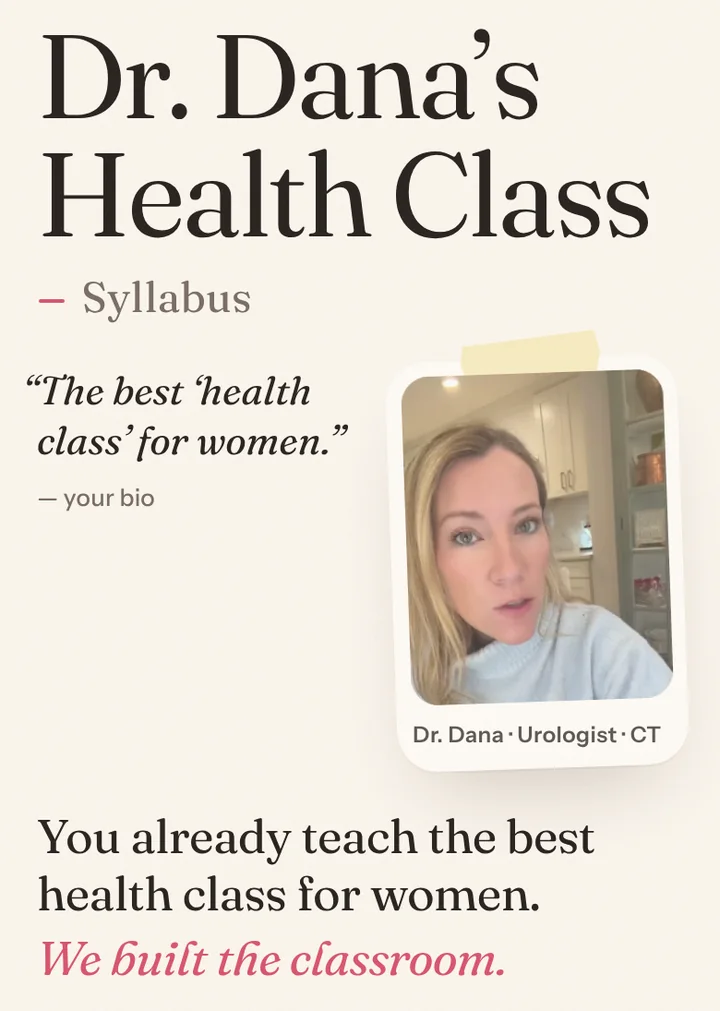
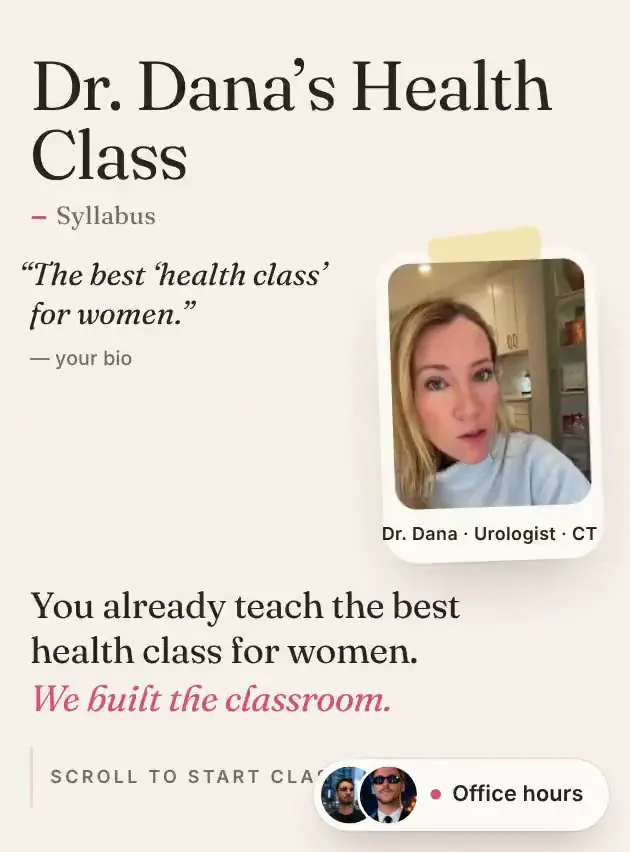
CreatorMatch: last regressions from the final check
- Income: the number and the app bar start together on any screen
  height, landscape included; the real value stays readable to screen
  readers and in print; the bar eases like the number.
- Comparison: short source labels fit one line from 320 px; stacked
  links keep their own 48 px tap areas.
- Calculator: a tighter step keeps the results inside the card at 320 px.
- Form: profile and reel links for handles with a dot resolve to the
  handle.
- Hero: replay and pause stay clear of the phone at 320 px.
- Tour: the flexibility chip matches the two-knee hold.
- Proof: the Dana poster is a frame of its own clip, so the letterbox,
  poster and video share one background.

Claude-Session: https://claude.ai/code/session_015BzU8drWGQcKYP5PaGJSWo

Changed region(s): [[0.0302, 0.0305, 0.9651, 1.0], [0.0905, 0.4883, 0.2111, 0.5188], [0.4524, 0.3967, 0.4825, 0.4272]]

diff --git a/brand/index.html b/brand/index.html
@@ -195,6 +195,7 @@ html:not(.js) .stage .mosaic{display:none}
 .stage.played .replay{display:grid}
 .stage.played:not(.done) .replay{opacity:.45;pointer-events:none}
 .vp.hero-vp{top:56px;bottom:auto;right:var(--gut);background:var(--cream);color:var(--plum);box-shadow:inset 0 0 0 1.5px var(--line-2);-webkit-backdrop-filter:none;backdrop-filter:none}
+@media (max-width:329px){.replay,.vp.hero-vp{right:calc(var(--gut) - 6px)}}
 .stage-glow{position:absolute;left:50%;top:56%;width:min(560px,130vw);aspect-ratio:1;transform:translate(-50%,-50%);border-radius:50%;background:radial-gradient(closest-side,rgba(255,214,107,.55),rgba(255,214,107,.18) 55%,transparent 72%);z-index:0;pointer-events:none}
 
 /* ── phone ────────────────────────────────────────────────────────────── */
@@ -296,7 +297,7 @@ html:not(.js) .ig-grid .kind{opacity:1;transform:none}
 .bar{position:relative;display:flex;flex-direction:column;justify-content:flex-end;height:100%}
 .bar i{display:block;height:var(--h);border-radius:12px 12px 4px 4px;background:rgba(255,248,240,.16);box-shadow:inset 0 0 0 1px rgba(255,248,240,.12)}
 .bar.app i{background:linear-gradient(180deg,#FF7A5C,var(--coral));box-shadow:0 0 0 0 rgba(255,90,54,0),0 18px 40px -16px rgba(255,90,54,.7);transform-origin:bottom}
-.js .bar.app i{transform:scaleY(0);transition:transform 1.3s var(--ease-io) .25s}
+.js .bar.app i{transform:scaleY(0);transition:transform 1.3s var(--ease) .25s}
 .js .bars.in .bar.app i{transform:none}
 .bar .still{position:absolute;left:50%;bottom:calc(var(--h) + 8px);transform:translateX(-50%);font:600 10.5px/1 var(--sans);letter-spacing:.06em;text-transform:uppercase;color:var(--on-plum-3);white-space:nowrap}
 .bar.app .still{color:var(--butter)}
@@ -476,6 +477,8 @@ html:not(.js) .ig-grid .kind{opacity:1;transform:none}
 .out-tbl .v{justify-content:flex-end;padding-left:14px}
 .out-tbl .h+.h{padding-left:14px}
 .out-tbl.long .v,.out-tbl.long .net .v{font-size:14px}
+.out-tbl.tight .v,.out-tbl.tight .h+.h{padding-left:8px}
+.out-tbl.tight .c{font-size:13px}
 .hero-out{display:flex;align-items:flex-end;justify-content:space-between;gap:12px;margin-bottom:20px;padding-bottom:18px;border-bottom:1px solid var(--plum-line)}
 .hero-out .k{font:600 12px/1.3 var(--sans);letter-spacing:.1em;text-transform:uppercase;color:var(--on-plum-3)}
 .hero-out .big{font:800 clamp(40px,12vw,64px)/.95 var(--num);letter-spacing:-.035em;color:var(--coral);margin-top:8px}
@@ -532,7 +535,7 @@ html:not(.js) .ig-grid .kind{opacity:1;transform:none}
 .cmp-c.ag .v{color:var(--ink-2)}
 .cmp-c.us .v{color:var(--coral)}
 .cmp-c .d{font:500 13.5px/1.4 var(--sans)}
-.cmp-c .srcs{display:flex;flex-wrap:wrap;gap:2px 10px}
+.cmp-c .srcs{display:flex;flex-wrap:wrap;gap:24px 10px}
 .cmp-r{background:linear-gradient(90deg,var(--cream-2) 50%,#fff 50%)}
 .cost{margin-top:18px;padding:18px;border-radius:22px;background:var(--cream-2)}
 .cost .k{font:600 12px/1.3 var(--sans);letter-spacing:.1em;text-transform:uppercase;color:var(--ink-3)}
@@ -791,7 +794,7 @@ html:not(.js) .pcard .media video{display:none}
   .pcard.feat .body{padding:28px 32px}
   .pcard.feat h4{font-size:32px}
   .pcard[data-proof="dana"] .media,.pcard[data-proof="kivenro"] .media{aspect-ratio:900/472}
-  .pcard[data-proof="dana"] .media{background:#F6EFE8}
+  .pcard[data-proof="dana"] .media{background:#F7F1EA}
   .pcard[data-proof="dana"] .media video,.pcard[data-proof="dana"] .media img{object-fit:contain;object-position:center}
   .spots-grid{grid-template-columns:1fr auto;gap:60px}
   .slot2{width:170px;height:170px}
@@ -995,7 +998,7 @@ html:not(.js) .pcard .media video{display:none}
       <div class="chart" id="chart">
         <div class="chart-top">
           <span class="k">App revenue after store fees</span>
-          <span class="v num"><span data-count="8492" data-fmt="$" data-plus>+$8,492</span><small>a month, before the split between you and us</small></span>
+          <span class="v num"><span class="vh">+$8,492</span><span data-count="8492" data-fmt="$" data-plus aria-hidden="true">+$8,492</span><small>a month, before the split between you and us</small></span>
         </div>
         <div class="bars" role="img" aria-label="Coaching, programs and ebooks stay the same. A new bar, your app, earns 8,492 dollars a month after store fees in this scenario, before the split between you and us.">
           <div class="bar" style="--h:64%"><span class="still">As today</span><i></i></div>
@@ -1182,19 +1185,19 @@ html:not(.js) .pcard .media video{display:none}
       <div class="cmp-r" role="row">
         <div class="cmp-k" role="rowheader">Upfront</div>
         <div class="cmp-c ag" role="cell">
-          <span class="v num">From $15,000</span><span class="d">for a basic fitness app</span><span class="srcs"><a class="src" href="https://solguruz.com/blog/fitness-app-development-cost/" target="_blank" rel="noopener">Source: fitness app cost guide</a></span>
-          <span class="v num" style="margin-top:8px">$30,000 to $120,000+</span><span class="d">for a typical US agency build</span><span class="srcs"><a class="src" href="https://theswiftk.it.com/cost-to-build/fitness-app" target="_blank" rel="noopener">Source: US build cost guide</a></span>
+          <span class="v num">From $15,000</span><span class="d">for a basic fitness app</span><span class="srcs"><a class="src" href="https://solguruz.com/blog/fitness-app-development-cost/" target="_blank" rel="noopener">Source: cost guide</a></span>
+          <span class="v num" style="margin-top:8px">$30,000 to $120,000+</span><span class="d">for a typical US agency build</span><span class="srcs"><a class="src" href="https://theswiftk.it.com/cost-to-build/fitness-app" target="_blank" rel="noopener">Source: build guide</a></span>
         </div>
         <div class="cmp-c us" role="cell"><span class="v num">$0</span><span class="d">We carry build and store costs.</span></div>
       </div>
       <div class="cmp-r" role="row">
         <div class="cmp-k" role="rowheader">Time</div>
-        <div class="cmp-c ag" role="cell"><span class="v num">3 to 4 months</span><span class="d">to build a first version</span><span class="srcs"><a class="src" href="https://attractgroup.com/blog/how-much-does-it-cost-to-make-a-fitness-app-everything-you-need-to-know/" target="_blank" rel="noopener">Source: build time guide</a></span></div>
+        <div class="cmp-c ag" role="cell"><span class="v num">3 to 4 months</span><span class="d">to build a first version</span><span class="srcs"><a class="src" href="https://attractgroup.com/blog/how-much-does-it-cost-to-make-a-fitness-app-everything-you-need-to-know/" target="_blank" rel="noopener">Source: time guide</a></span></div>
         <div class="cmp-c us" role="cell"><span class="v num">6 weeks</span><span class="d">to store submission</span></div>
       </div>
       <div class="cmp-r" role="row">
         <div class="cmp-k" role="rowheader">Upkeep</div>
-        <div class="cmp-c ag" role="cell"><span class="v num">15% to 20%</span><span class="d">of the build cost, every year</span><span class="srcs"><a class="src" href="https://www.cubix.co/blog/cost-of-mobile-app-maintenance/" target="_blank" rel="noopener">Source: upkeep cost guide</a><a class="src" href="https://www.spaceotechnologies.com/blog/how-much-does-it-cost-to-maintain-app/" target="_blank" rel="noopener">Source 2: upkeep cost guide</a></span></div>
+        <div class="cmp-c ag" role="cell"><span class="v num">15% to 20%</span><span class="d">of the build cost, every year</span><span class="srcs"><a class="src" href="https://www.cubix.co/blog/cost-of-mobile-app-maintenance/" target="_blank" rel="noopener">Upkeep guide</a><a class="src" href="https://www.spaceotechnologies.com/blog/how-much-does-it-cost-to-maintain-app/" target="_blank" rel="noopener">Guide 2</a></span></div>
         <div class="cmp-c us" role="cell"><span class="v num">$0</span><span class="d">We maintain it.</span></div>
       </div>
       <div class="cmp-r" role="row">
@@ -1270,7 +1273,7 @@ html:not(.js) .pcard .media video{display:none}
         </div>
       </article>
       <article class="pcard" data-proof="dana" data-cleared="yes">
-        <div class="media"><video muted playsinline loop preload="none" aria-hidden="true" tabindex="-1" data-poster="media/cm/proof/dana.webp" data-src="media/cm/proof/dana-v2.mp4"></video><noscript><img src="media/cm/proof/dana.webp" alt="" width="720" height="1011" loading="lazy" decoding="async"></noscript><button class="vp" type="button" aria-pressed="false" aria-label="Pause the Dr. Dana video"><svg class="pa" aria-hidden="true"><use href="#i-pause"/></svg><svg class="pl" aria-hidden="true"><use href="#i-play"/></svg></button></div>
+        <div class="media"><video muted playsinline loop preload="none" aria-hidden="true" tabindex="-1" data-poster="media/cm/proof/dana.webp" data-src="media/cm/proof/dana-v2.mp4"></video><noscript><img src="media/cm/proof/dana.webp" alt="" width="630" height="852" loading="lazy" decoding="async"></noscript><button class="vp" type="button" aria-pressed="false" aria-label="Pause the Dr. Dana video"><svg class="pa" aria-hidden="true"><use href="#i-pause"/></svg><svg class="pl" aria-hidden="true"><use href="#i-play"/></svg></button></div>
         <div class="body">
           <div class="meta"><span class="tag wip">Work preview · WiP</span><span class="tag est">Women’s health</span></div>
           <h4>Dr. Dana’s Health Class</h4>
@@ -1501,7 +1504,16 @@ once($$('.stats [data-count]'), (el) => count(el), { threshold: 0.6 })
 // the app bar and its number start together, when the bars are on screen
 const cn = $('#chart [data-count]')
 if (!RM && 'IntersectionObserver' in window) { cn.dataset.end = cn.textContent; cn.textContent = '+$0' }
-once([$('#chart .bars')], (el) => { el.classList.add('in'); count(cn, 1300, 250) }, { threshold: 0.95, rootMargin: '0px 0px -90px 0px' })
+const bars = $('#chart .bars')
+const grow = () => { bars.classList.add('in'); count(cn, 1300, 250) }
+if (!('IntersectionObserver' in window)) grow()
+else {
+  const bio = new IntersectionObserver((es) => es.forEach((e) => {
+    if (e.isIntersecting && e.rootBounds && e.intersectionRect.height >= 0.95 * Math.min(e.boundingClientRect.height, e.rootBounds.height)) { bio.unobserve(bars); grow() }
+  }), { threshold: Array.from({ length: 101 }, (_, i) => i / 100), rootMargin: '0px 0px -90px 0px' })
+  bio.observe(bars)
+}
+addEventListener('beforeprint', () => { if (cn.dataset.end) cn.textContent = cn.dataset.end })
 const ig = $('#ig')
 if (RM) ig.classList.add('sorted')
 once([ig], () => {
@@ -1705,7 +1717,7 @@ const NICHES = [
       (n) => hd(n, 'Hip opener flow · 3 of 8', 'Knees to chest') + `<div class="a-body">
         <div class="a-media" style="height:15em">${img(M + 'kevin/routine.webp')}<span class="ov"></span><span class="cap2"><span>Hold</span><b style="font:800 1.8em/1 var(--num)">0:45</b></span></div>
         <div class="a-prog" style="--p:37%"><i></i></div>
-        <div class="a-chips"><span class="on">Intensity 6/10</span><span>Left side</span></div>
+        <div class="a-chips"><span class="on">Intensity 6/10</span><span>Both knees</span></div>
         <p class="a-quote">Breathe out. Pull the knees 2 cm closer.</p>
         <span class="a-btn" data-tap>Next pose ${I('i-arr')}</span></div>` + tabs(0),
       (n) => hd(n, 'Session done', 'Day 9 streak', `${I('i-flame')}9`) + `<div class="a-body">
@@ -1931,9 +1943,10 @@ function calc() {
 }
 function fitTbl() {
   const t = $('.out-tbl'), box = t.parentElement
-  t.classList.remove('long')
+  t.classList.remove('long', 'tight')
   const edge = box.getBoundingClientRect().right - parseFloat(getComputedStyle(box).paddingRight)
-  t.classList.toggle('long', t.scrollWidth > t.clientWidth + 1 || t.getBoundingClientRect().right > edge + 1)
+  const over = () => t.scrollWidth > t.clientWidth + 1 || t.getBoundingClientRect().right > edge + 1
+  if (over()) { t.classList.add('long'); if (over()) t.classList.add('tight') }
 }
 let fitT
 addEventListener('resize', () => { clearTimeout(fitT); fitT = setTimeout(fitTbl, 150) })
@@ -2019,11 +2032,13 @@ form.addEventListener('submit', async (e) => {
   e.preventDefault()
   if (form.classList.contains('busy')) return
   const raw = $('#f-ig').value.trim().replace(/^@+/, '')
-  const rest = raw.replace(/^(?:https?:\/\/)?(?:www\.|m\.)?(?:instagram\.com|instagr\.am)\//i, '').replace(/^@+/, '')
+  const igPrefix = /^(?:https?:\/\/)?(?:www\.|m\.)?(?:instagram\.com|instagr\.am)\//i
+  const hadIg = igPrefix.test(raw)
+  const rest = raw.replace(igPrefix, '').replace(/^@+/, '')
   const seg = rest.split(/[/?#]/)
   const handle = /^stories$/i.test(seg[0]) && seg[1] ? seg[1] : seg[0]
   const reserved = /^(p|reel|reels|tv|s|stories|explore|accounts|direct)$/i
-  const foreign = /^[a-z][a-z0-9+.-]*:/i.test(rest) || /^[^/?#]*\.[^/?#]*\/[^/?#]/.test(rest)
+  const foreign = /^[a-z][a-z0-9+.-]*:/i.test(rest) || (!hadIg && /^[^/?#]*\.[^/?#]*\/[^/?#]/.test(rest))
   const niche = (form.querySelector('[name=niche]:checked') || {}).value
   const sells = $$('[name=sell]:checked', form).map((i) => i.value)
   const revenue = (form.querySelector('[name=revenue]:checked') || {}).value
